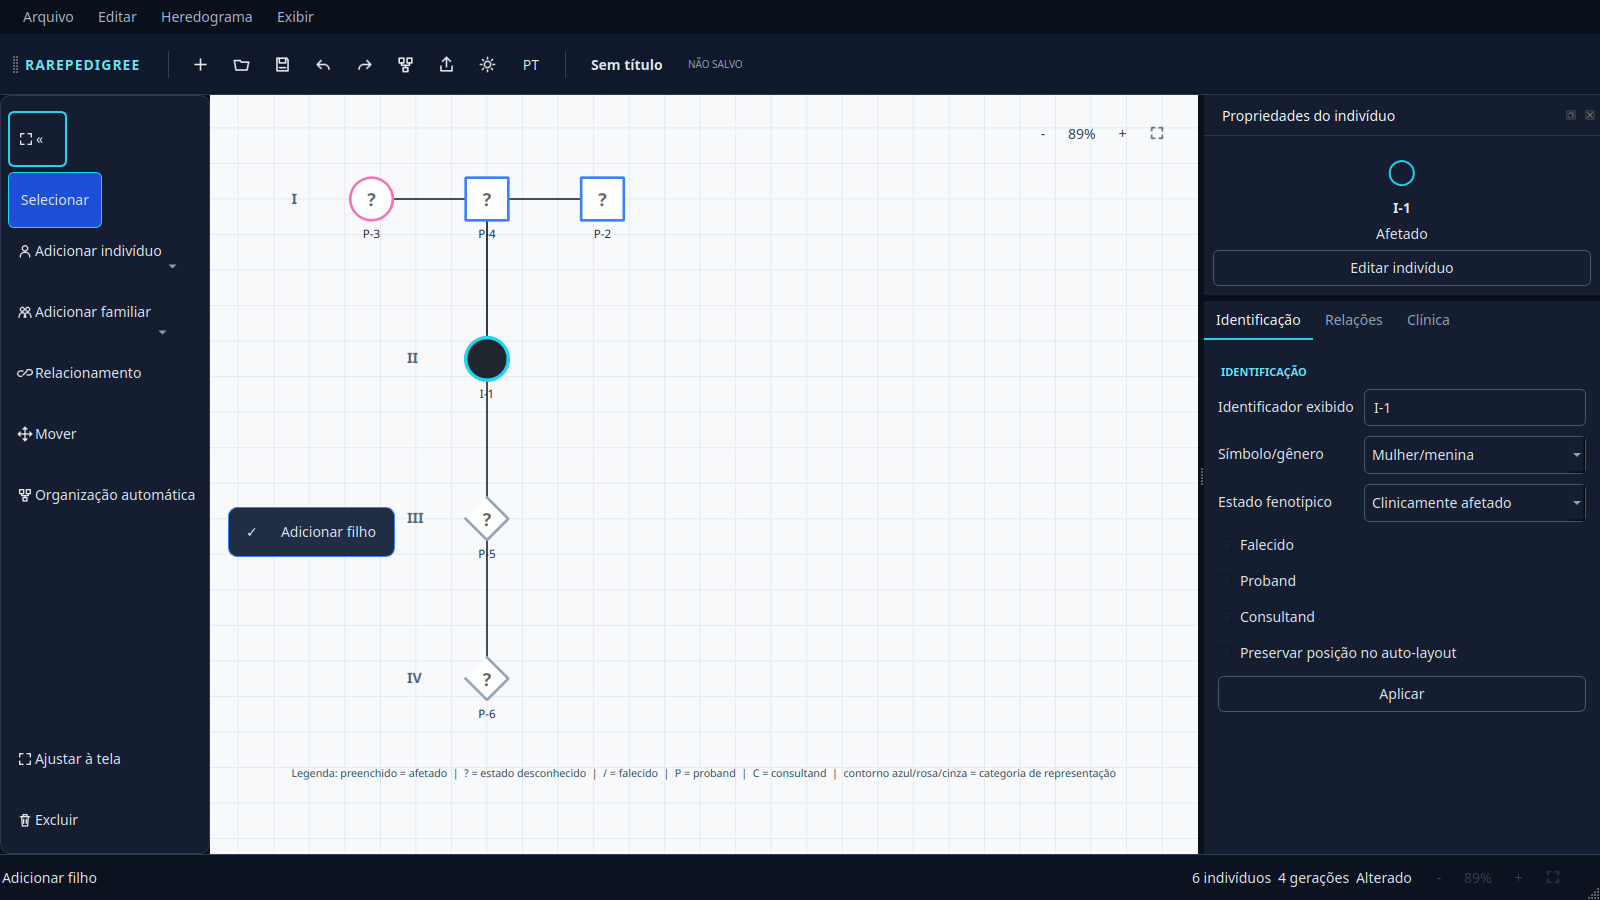
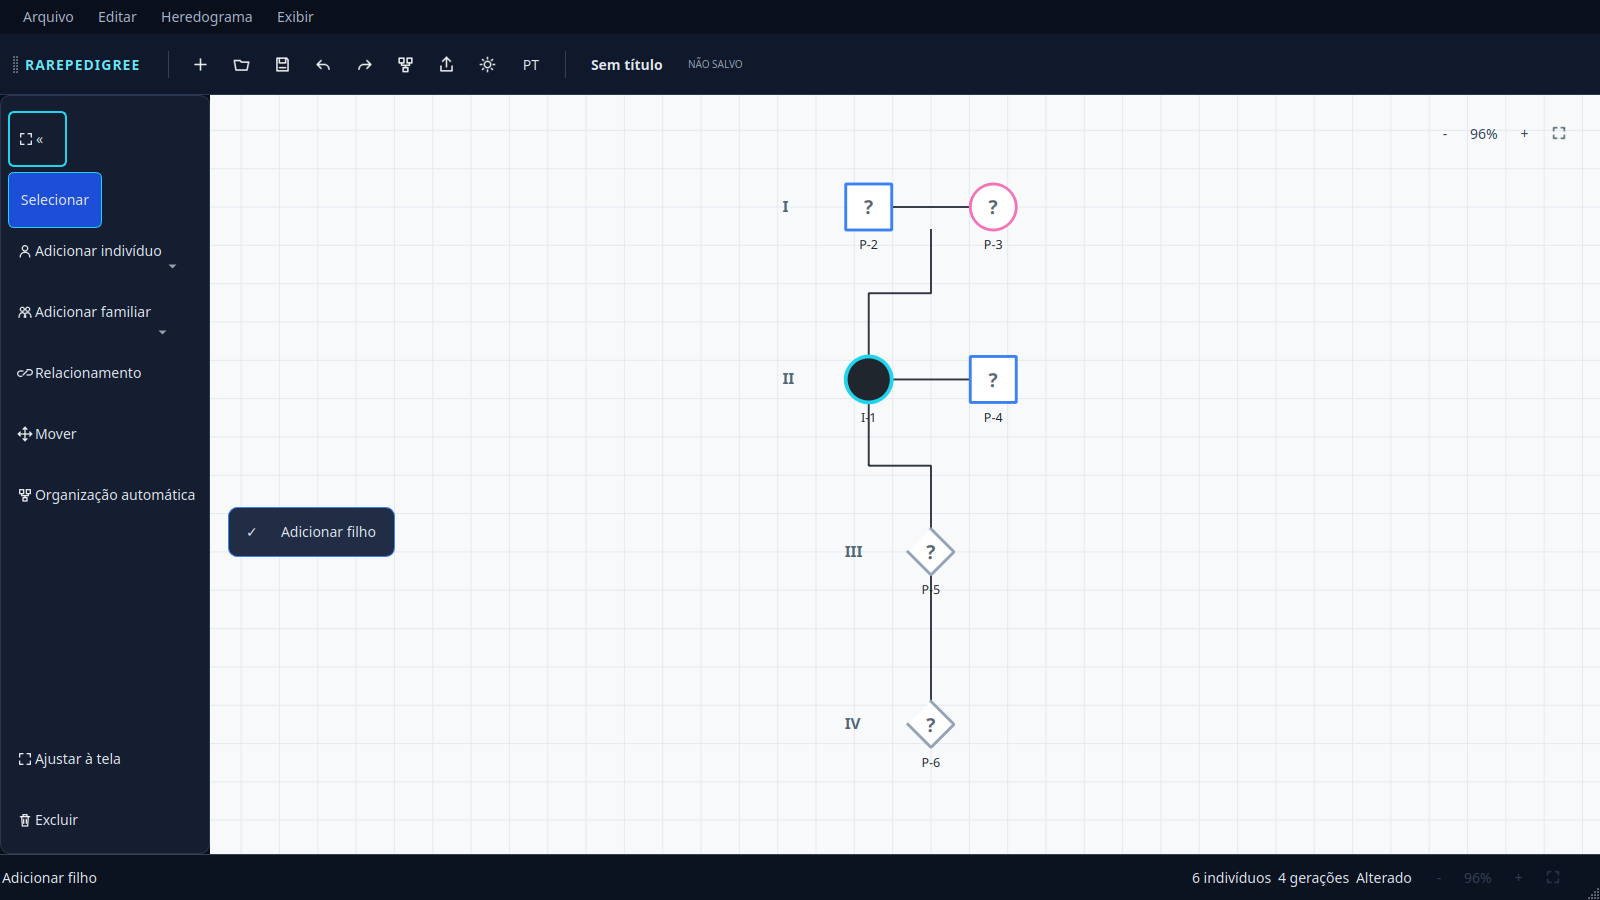
fix: stabilize family layout and add sliding properties drawer

diff --git a/src/rarepedigree/ui/main_window.py b/src/rarepedigree/ui/main_window.py
@@ -13,10 +13,10 @@ from PySide6.QtGui import (
     QFont,
     QKeySequence,
     QPainter,
+    QResizeEvent,
     QUndoStack,
 )
 from PySide6.QtWidgets import (
-    QDockWidget,
     QFileDialog,
     QFrame,
     QHBoxLayout,
@@ -53,7 +53,14 @@ from rarepedigree.persistence import JsonProjectRepository
 from rarepedigree.rendering import IndividualItem, PedigreeScene, PedigreeView
 from rarepedigree.rendering.exporters import ExportOptions, export_pdf, export_png, export_svg
 from rarepedigree.rendering.style import PedigreeRenderStyle
-from rarepedigree.ui.components import EmptyState, FamilyMenu, Toast, ToolRailButton, ZoomControl
+from rarepedigree.ui.components import (
+    EmptyState,
+    FamilyMenu,
+    SlidingPanel,
+    Toast,
+    ToolRailButton,
+    ZoomControl,
+)
 from rarepedigree.ui.dialogs import EditIndividualDialog, NewProjectDialog
 from rarepedigree.ui.i18n import language_manager, tr
 from rarepedigree.ui.icons import icon
@@ -113,12 +120,10 @@ class MainWindow(QMainWindow):
 
         self.properties = PropertiesPanel(self._apply_properties)
         self.properties.editRequested.connect(lambda: self._context_for_selected("edit_dialog"))
-        dock = QDockWidget("Propriedades do indivíduo", self)
-        self.properties_dock = dock
-        dock.setObjectName("individual-properties")
-        dock.setMinimumWidth(330)
-        dock.setWidget(self.properties)
-        self.addDockWidget(Qt.DockWidgetArea.RightDockWidgetArea, dock)
+        self.properties_drawer = SlidingPanel(self.properties, self.central_shell)
+        self.properties_drawer.closeRequested.connect(self.scene.clearSelection)
+        # Compatibility alias for callers that previously adjusted the dock.
+        self.properties_dock = self.properties_drawer
 
         self._create_menus()
         self._create_toolbar()
@@ -591,7 +596,7 @@ class MainWindow(QMainWindow):
         )
 
     def fit_pedigree(self) -> None:
-        rect = self.scene.itemsBoundingRect().adjusted(-80, -80, 80, 80)
+        rect = self.scene.pedigree_bounding_rect().adjusted(-80, -80, 80, 80)
         if not rect.isEmpty():
             self.view.fitInView(rect, Qt.AspectRatioMode.KeepAspectRatio)
             self.view.zoomChanged.emit(self.view.zoom_percent)
@@ -642,6 +647,10 @@ class MainWindow(QMainWindow):
         except RuntimeError:
             return
         self.properties.set_item(selected[0] if len(selected) == 1 else None, self.project)
+        if len(selected) == 1:
+            self.properties_drawer.open_panel()
+        else:
+            self.properties_drawer.close_panel()
 
     def _apply_properties(self, item: IndividualItem, new_values: dict[str, Any]) -> None:
         old_values = {field: getattr(item.person, field) for field in new_values}
@@ -749,7 +758,10 @@ class MainWindow(QMainWindow):
         font = QFont(self.font())
         font.setPixelSize(effective_size)
         self.setFont(font)
-        self.properties_dock.setMinimumWidth(round(330 * scale))
+        drawer_width = round(370 * scale)
+        self.properties_drawer.setMinimumWidth(round(330 * scale))
+        self.properties_drawer.setFixedWidth(drawer_width)
+        self.properties_drawer.sync_geometry()
         self.tool_rail.setFixedWidth(round((210 if self.rail_expanded else 60) * scale))
         self.view.grid_enabled = self.settings.value("pedigree/grid", True, bool)
         self.scene.apply_render_style(PedigreeRenderStyle.from_settings(self.settings))
@@ -802,7 +814,7 @@ class MainWindow(QMainWindow):
         self.family_button.setText(tr("Adicionar familiar"))
         self.empty_state.retranslate_ui()
         self.properties.retranslate_ui()
-        self.properties_dock.setWindowTitle(tr("Propriedades do indivíduo"))
+        self.properties_drawer.title.setText(tr("Propriedades do indivíduo"))
         self.scene.apply_render_style(self.scene.render_style)
         self._update_title()
         self._update_workspace_state()
@@ -851,3 +863,8 @@ class MainWindow(QMainWindow):
 
     def closeEvent(self, event: QCloseEvent) -> None:
         event.accept() if self._may_discard_changes() else event.ignore()
+
+    def resizeEvent(self, event: QResizeEvent) -> None:
+        super().resizeEvent(event)
+        if hasattr(self, "properties_drawer"):
+            self.properties_drawer.sync_geometry()

diff --git a/src/rarepedigree/ui/components.py b/src/rarepedigree/ui/components.py
@@ -1,6 +1,6 @@
 """Reusable presentation components for the Scientific Workspace."""
 
-from PySide6.QtCore import Qt, QTimer, Signal
+from PySide6.QtCore import QEvent, QEasingCurve, QPropertyAnimation, QRect, Qt, QTimer, Signal
 from PySide6.QtGui import QAction
 from PySide6.QtWidgets import (
     QFrame,
@@ -22,6 +22,8 @@ class ToolRailButton(QToolButton):
         self, action: QAction, icon_name: str, parent=None, expanded: bool = False
     ) -> None:
         super().__init__(parent)
+        if parent is not None:
+            parent.installEventFilter(self)
         self.setDefaultAction(action)
         self.setIcon(icon(icon_name))
         self.setToolButtonStyle(
@@ -143,3 +145,80 @@ class Toast(QFrame):
         self.show()
         self.raise_()
         QTimer.singleShot(3200, self.hide)
+
+
+class SlidingPanel(QFrame):
+    """Overlay drawer that does not permanently consume canvas width."""
+
+    closeRequested = Signal()
+
+    def __init__(self, content: QWidget, parent=None) -> None:
+        super().__init__(parent)
+        self.setObjectName("properties-drawer")
+        self.setMinimumWidth(330)
+        self.setFixedWidth(370)
+        self._open = False
+        self.animation = QPropertyAnimation(self, b"geometry", self)
+        self.animation.setDuration(180)
+        self.animation.setEasingCurve(QEasingCurve.Type.OutCubic)
+        self.animation.finished.connect(self._hide_if_closed)
+        root = QVBoxLayout(self)
+        root.setContentsMargins(0, 0, 0, 0)
+        header = QWidget()
+        header_layout = QHBoxLayout(header)
+        header_layout.setContentsMargins(16, 10, 8, 8)
+        self.title = QLabel(tr("Propriedades do indivíduo"))
+        self.title.setStyleSheet("font-weight: 700;")
+        close = QToolButton(text="✕")
+        close.setAccessibleName(tr("Fechar"))
+        close.clicked.connect(self.close_panel)
+        header_layout.addWidget(self.title)
+        header_layout.addStretch()
+        header_layout.addWidget(close)
+        root.addWidget(header)
+        root.addWidget(content, 1)
+        self.hide()
+
+    def open_panel(self) -> None:
+        if self.parentWidget() is None:
+            return
+        was_visible = self.isVisible()
+        self._open = True
+        self.show()
+        self.raise_()
+        parent_rect = self.parentWidget().rect()
+        start = QRect(parent_rect.width(), 0, self.width(), parent_rect.height())
+        end = QRect(parent_rect.width() - self.width(), 0, self.width(), parent_rect.height())
+        self.animation.stop()
+        self.animation.setStartValue(self.geometry() if was_visible else start)
+        self.animation.setEndValue(end)
+        self.animation.start()
+
+    def close_panel(self) -> None:
+        if self.parentWidget() is None or self.isHidden():
+            return
+        self._open = False
+        parent_rect = self.parentWidget().rect()
+        self.animation.stop()
+        self.animation.setStartValue(self.geometry())
+        self.animation.setEndValue(
+            QRect(parent_rect.width(), 0, self.width(), parent_rect.height())
+        )
+        self.animation.start()
+        self.closeRequested.emit()
+
+    def _hide_if_closed(self) -> None:
+        if not self._open:
+            self.hide()
+
+    def sync_geometry(self) -> None:
+        if self.parentWidget() is None:
+            return
+        parent_rect = self.parentWidget().rect()
+        x = parent_rect.width() - self.width() if self._open else parent_rect.width()
+        self.setGeometry(x, 0, self.width(), parent_rect.height())
+
+    def eventFilter(self, watched, event) -> bool:
+        if watched is self.parentWidget() and event.type() == QEvent.Type.Resize:
+            QTimer.singleShot(0, self.sync_geometry)
+        return super().eventFilter(watched, event)

diff --git a/tests/unit/test_layout.py b/tests/unit/test_layout.py
@@ -1,4 +1,13 @@
-from rarepedigree.domain import FamilyService, Individual, PedigreeProject
+import pytest
+
+from rarepedigree.domain import (
+    FamilyService,
+    GenderIdentity,
+    Individual,
+    ParentageKind,
+    PedigreeProject,
+    Relationship,
+)
 from rarepedigree.layout import PedigreeLayoutEngine
 
 
@@ -23,3 +32,61 @@ def test_layout_preserves_locked_manual_position() -> None:
     person.layout.locked = True
     positions = PedigreeLayoutEngine().compute(PedigreeProject(individuals=[person]))
     assert positions[person.id] == (321, 654)
+
+
+def test_partners_are_kept_in_the_same_generation() -> None:
+    child = Individual(label="II-1")
+    project = PedigreeProject(individuals=[child])
+    project, _ = FamilyService.add_parents(project, child.id)
+    partner = Individual(label="II-2")
+    project.individuals.append(partner)
+    project.relationships.append(Relationship(member_a=child.id, member_b=partner.id))
+    generations = PedigreeLayoutEngine().generations(project)
+    assert generations[child.id] == generations[partner.id] == 1
+    _assert_no_position_collisions(project)
+
+
+def _assert_no_position_collisions(project: PedigreeProject) -> None:
+    positions = PedigreeLayoutEngine().compute(project, preserve_locked=False)
+    assert len(set(positions.values())) == len(project.individuals)
+
+
+@pytest.mark.parametrize("gender", [GenderIdentity.MAN, GenderIdentity.WOMAN])
+def test_single_new_parent_is_above_child_without_collision(gender) -> None:
+    child = Individual()
+    project = PedigreeProject(individuals=[child])
+    project, parent_id = FamilyService.add_parent(project, child.id, gender)
+    engine = PedigreeLayoutEngine()
+    generations = engine.generations(project)
+    assert generations[parent_id] + 1 == generations[child.id]
+    _assert_no_position_collisions(project)
+
+
+@pytest.mark.parametrize("unknown", [False, True])
+def test_parent_pair_is_above_child_without_collision(unknown) -> None:
+    child = Individual()
+    project = PedigreeProject(individuals=[child])
+    project, parent_ids = FamilyService.add_parents(project, child.id, unknown=unknown)
+    engine = PedigreeLayoutEngine()
+    generations = engine.generations(project)
+    assert all(generations[parent_id] + 1 == generations[child.id] for parent_id in parent_ids)
+    _assert_no_position_collisions(project)
+
+
+@pytest.mark.parametrize("kind", [ParentageKind.BIOLOGICAL, ParentageKind.LEGAL])
+def test_new_child_is_below_parent_without_collision(kind) -> None:
+    parent = Individual()
+    project = PedigreeProject(individuals=[parent])
+    project, child_id = FamilyService.add_child(project, parent.id, kind=kind)
+    generations = PedigreeLayoutEngine().generations(project)
+    assert generations[child_id] == generations[parent.id] + 1
+    _assert_no_position_collisions(project)
+
+
+def test_new_sibling_shares_generation_without_collision() -> None:
+    person = Individual()
+    project = PedigreeProject(individuals=[person])
+    project, sibling_id = FamilyService.add_sibling(project, person.id)
+    generations = PedigreeLayoutEngine().generations(project)
+    assert generations[sibling_id] == generations[person.id]
+    _assert_no_position_collisions(project)

diff --git a/tests/unit/test_main_window.py b/tests/unit/test_main_window.py
@@ -72,6 +72,43 @@ def test_tool_rail_collapses_and_expands(qtbot) -> None:
     assert window.rail_expanded
 
 
+def test_selecting_person_opens_overlay_drawer(qtbot) -> None:
+    window = MainWindow()
+    qtbot.addWidget(window)
+    window.add_person(GenderIdentity.MAN)
+    assert not window.properties_drawer.isHidden()
+    assert window.properties_drawer._open
+    window.properties_drawer.close_panel()
+    assert not window.properties_drawer._open
+
+
+def test_new_parents_are_above_proband_without_overlap(qtbot) -> None:
+    window = MainWindow()
+    qtbot.addWidget(window)
+    proband = window.add_person(GenderIdentity.UNKNOWN)
+    window._context_action(window.scene.person_items[proband.id], "parents")
+    proband_item = window.scene.person_items[proband.id]
+    parent_edges = [edge for edge in window.project.parentages if edge.child_id == proband.id]
+    parents = [window.scene.person_items[edge.parent_id] for edge in parent_edges]
+    assert len(parents) == 2
+    assert all(parent.pos().y() < proband_item.pos().y() for parent in parents)
+    assert parents[0].pos() != parents[1].pos()
+    assert abs(parents[0].pos().x() - parents[1].pos().x()) >= 100
+    assert all(parent.pos() != proband_item.pos() for parent in parents)
+
+    window._context_action(proband_item, "partner")
+    proband_item = window.scene.person_items[proband.id]
+    relation = next(
+        relation
+        for relation in window.project.relationships
+        if proband.id in {relation.member_a, relation.member_b}
+    )
+    partner_id = relation.member_b if relation.member_a == proband.id else relation.member_a
+    partner_item = window.scene.person_items[partner_id]
+    assert partner_item.pos().y() == proband_item.pos().y()
+    assert partner_item.pos().x() != proband_item.pos().x()
+
+
 def test_context_actions_filter_existing_parents(qtbot) -> None:
     window = MainWindow()
     qtbot.addWidget(window)
@@ -86,14 +123,14 @@ def test_context_actions_filter_existing_parents(qtbot) -> None:
     assert "mother" in actions
 
 
-@pytest.mark.parametrize(("scale", "expected"), [(100, 330), (125, 412), (150, 495)])
+@pytest.mark.parametrize(("scale", "expected"), [(100, 370), (125, 462), (150, 555)])
 def test_ui_scale_changes_workspace_geometry(qtbot, scale, expected) -> None:
     settings = QSettings()
     settings.setValue("ui/scale", scale)
     settings.setValue("ui/font_size", 14)
     window = MainWindow()
     qtbot.addWidget(window)
-    assert window.properties_dock.minimumWidth() == expected
+    assert window.properties_drawer.width() == expected
     assert window.font().pixelSize() == round(14 * scale / 100)
     assert window.devicePixelRatioF() > 0
     settings.setValue("ui/scale", 100)

diff --git a/src/rarepedigree/rendering/scene.py b/src/rarepedigree/rendering/scene.py
@@ -106,7 +106,10 @@ class PedigreeScene(QGraphicsScene):
         legend.setPos(*positions.get(self.render_style.legend_position, positions["bottom"]))
         self.addItem(legend)
         self.legend_item = legend
-        legend.setVisible(self.render_style.show_legend)
+        # The interactive canvas deliberately stays free of a legend because
+        # its wide bounding box distorts fit-to-view. Exporters may temporarily
+        # reveal the same item when the export option requests it.
+        legend.setVisible(False)
 
     def _add_parentage_connectors(self, project: PedigreeProject) -> None:
         twin_member_ids = {member for group in project.twin_groups for member in group.member_ids}
@@ -189,6 +192,14 @@ class PedigreeScene(QGraphicsScene):
 
     def selected_people(self) -> list[IndividualItem]:
         return [item for item in self.selectedItems() if isinstance(item, IndividualItem)]
+
+    def pedigree_bounding_rect(self) -> QRectF:
+        """Bounds for editor navigation, explicitly excluding the export legend."""
+        bounds = QRectF()
+        for item in self.items():
+            if item is not self.legend_item and item.isVisible():
+                bounds = bounds.united(item.sceneBoundingRect())
+        return bounds
 
 
 def _roman(number: int) -> str:

diff --git a/src/rarepedigree/layout/engine.py b/src/rarepedigree/layout/engine.py
@@ -14,8 +14,21 @@ class PedigreeLayoutEngine:
 
     def generations(self, project: PedigreeProject) -> dict[UUID, int]:
         generation = {person.id: 0 for person in project.individuals}
-        for _ in range(len(project.individuals)):
+        # Parentage establishes vertical levels. Partnerships then pull both
+        # members onto the same level and the constraints are propagated again.
+        # The bounded fixed-point keeps malformed cross-generation partnerships
+        # from hanging the editor while producing stable normal pedigrees.
+        limit = max(1, len(project.individuals) * 2)
+        for _ in range(limit):
             changed = False
+            for relation in project.relationships:
+                shared = max(generation[relation.member_a], generation[relation.member_b])
+                if generation[relation.member_a] != shared:
+                    generation[relation.member_a] = shared
+                    changed = True
+                if generation[relation.member_b] != shared:
+                    generation[relation.member_b] = shared
+                    changed = True
             for edge in project.parentages:
                 candidate = generation[edge.parent_id] + 1
                 if generation[edge.child_id] < candidate:

diff --git a/src/rarepedigree/ui/theme.py b/src/rarepedigree/ui/theme.py
@@ -53,6 +53,7 @@ QScrollBar { background: transparent; width: 9px; height: 9px; }
 QScrollBar::handle { background: #94A3B8; border-radius: 4px; min-height: 28px; }
 QScrollBar::add-line, QScrollBar::sub-line { width: 0; height: 0; }
 QFrame#tool-rail { background: #151E30; border: 1px solid #2B3750; border-radius: 10px; }
+QFrame#properties-drawer { background: #151E30; border-left: 1px solid #30415F; }
 QFrame#empty-state { background: rgba(255,255,255,235); border: 1px solid #CBD5E1; border-radius: 12px; }
 QFrame#empty-state QLabel { color: #475569; }
 QLabel#empty-title { color: #0F172A; font-size: 18px; font-weight: 700; }
